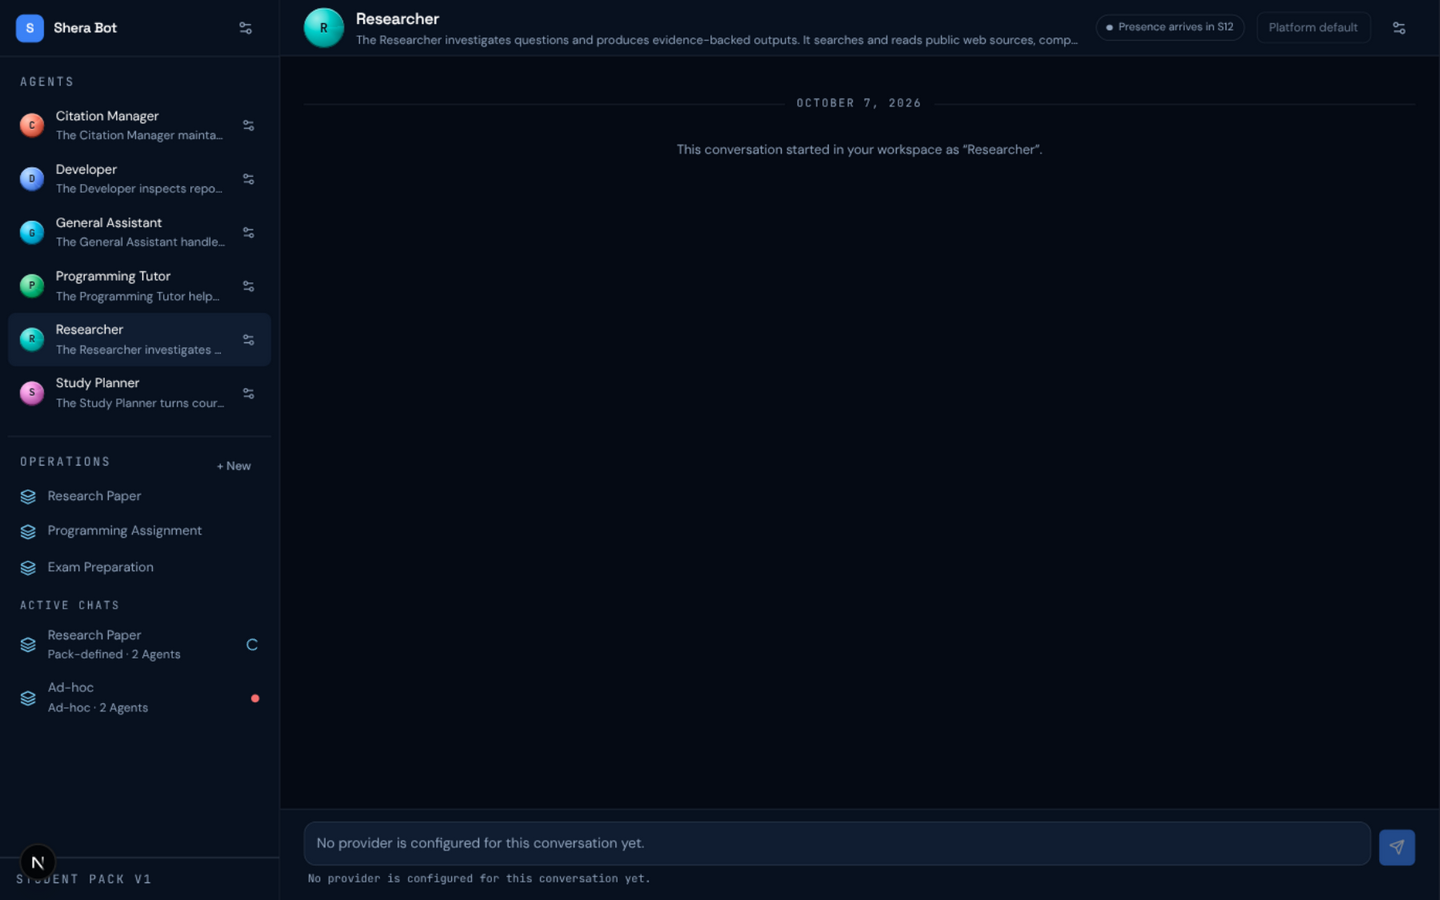
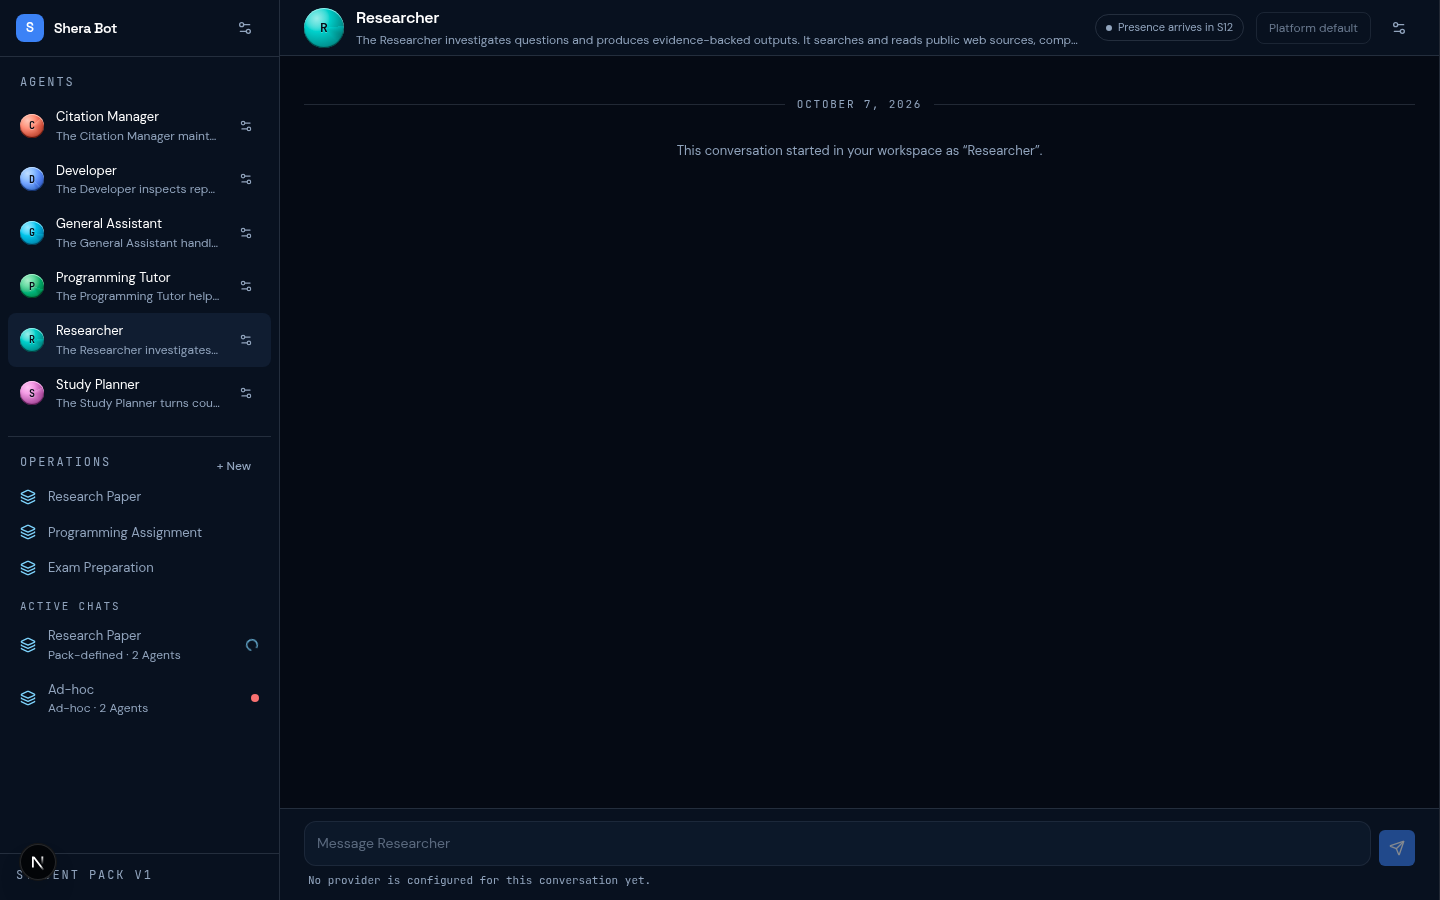
s11: composer disabled state reads once and reads unavailable
Adversarial taste pass (P3): in the no-provider runtime state the reason
rendered TWICE on the same surface — as the textarea placeholder and as
the hint below it. The hint (role=status) is now the one place the D17
explanation renders; the placeholder stays the neutral prompt. The field
itself also reads as unavailable now (dimmed, not-allowed cursor) —
previously only the send button dimmed.

Evidence: agent-chat-researcher-live-1440.png (re-captured).

diff --git a/apps/web/components/chat/composer.tsx b/apps/web/components/chat/composer.tsx
@@ -74,13 +74,16 @@ export function Composer({
           onKeyDown={handleKeyDown}
           rows={1}
           disabled={disabled}
-          placeholder={disabled ? disabledReason : `Message ${agentName}`}
-          className="max-h-40 min-h-11 min-w-0 flex-1 resize-none rounded-xl border border-line bg-surface-elevated px-3 py-2.5 text-base text-text placeholder:text-muted"
+          placeholder={`Message ${agentName}`}
+          className="max-h-40 min-h-11 min-w-0 flex-1 resize-none rounded-xl border border-line bg-surface-elevated px-3 py-2.5 text-base text-text placeholder:text-muted disabled:opacity-60 disabled:cursor-not-allowed"
         />
         <Button type="submit" size="icon" disabled={!canSend} aria-label="Send message">
           <Send className="size-4" aria-hidden="true" />
         </Button>
       </form>
+      {/* The hint is the ONE place the disabled reason renders (D17): the
+          placeholder stays the neutral prompt, so the explanation never
+          appears twice on the same surface. */}
       <p className="mt-1.5 px-1 font-mono text-[11px] text-muted" role="status">
         {disabled
           ? disabledReason

diff --git a/apps/web/test/chat-view.test.ts b/apps/web/test/chat-view.test.ts
@@ -246,8 +246,14 @@ describe("composer (§S3)", () => {
         disabledReason: "No provider is configured for this conversation yet.",
       }),
     );
+    // The hint line is the ONE place the reason renders — the textarea keeps
+    // its neutral placeholder, so the surface never says it twice.
     expect(html).toContain("No provider is configured for this conversation yet.");
+    expect(html).not.toMatch(/placeholder="No provider is configured[^"]*"/);
+    expect(html).toMatch(/placeholder="Message Researcher"/);
     expect(html).toContain("disabled");
+    // The field itself reads as unavailable (dimmed), not just the send button.
+    expect(html).toContain("disabled:opacity-60");
   });
 });
 
